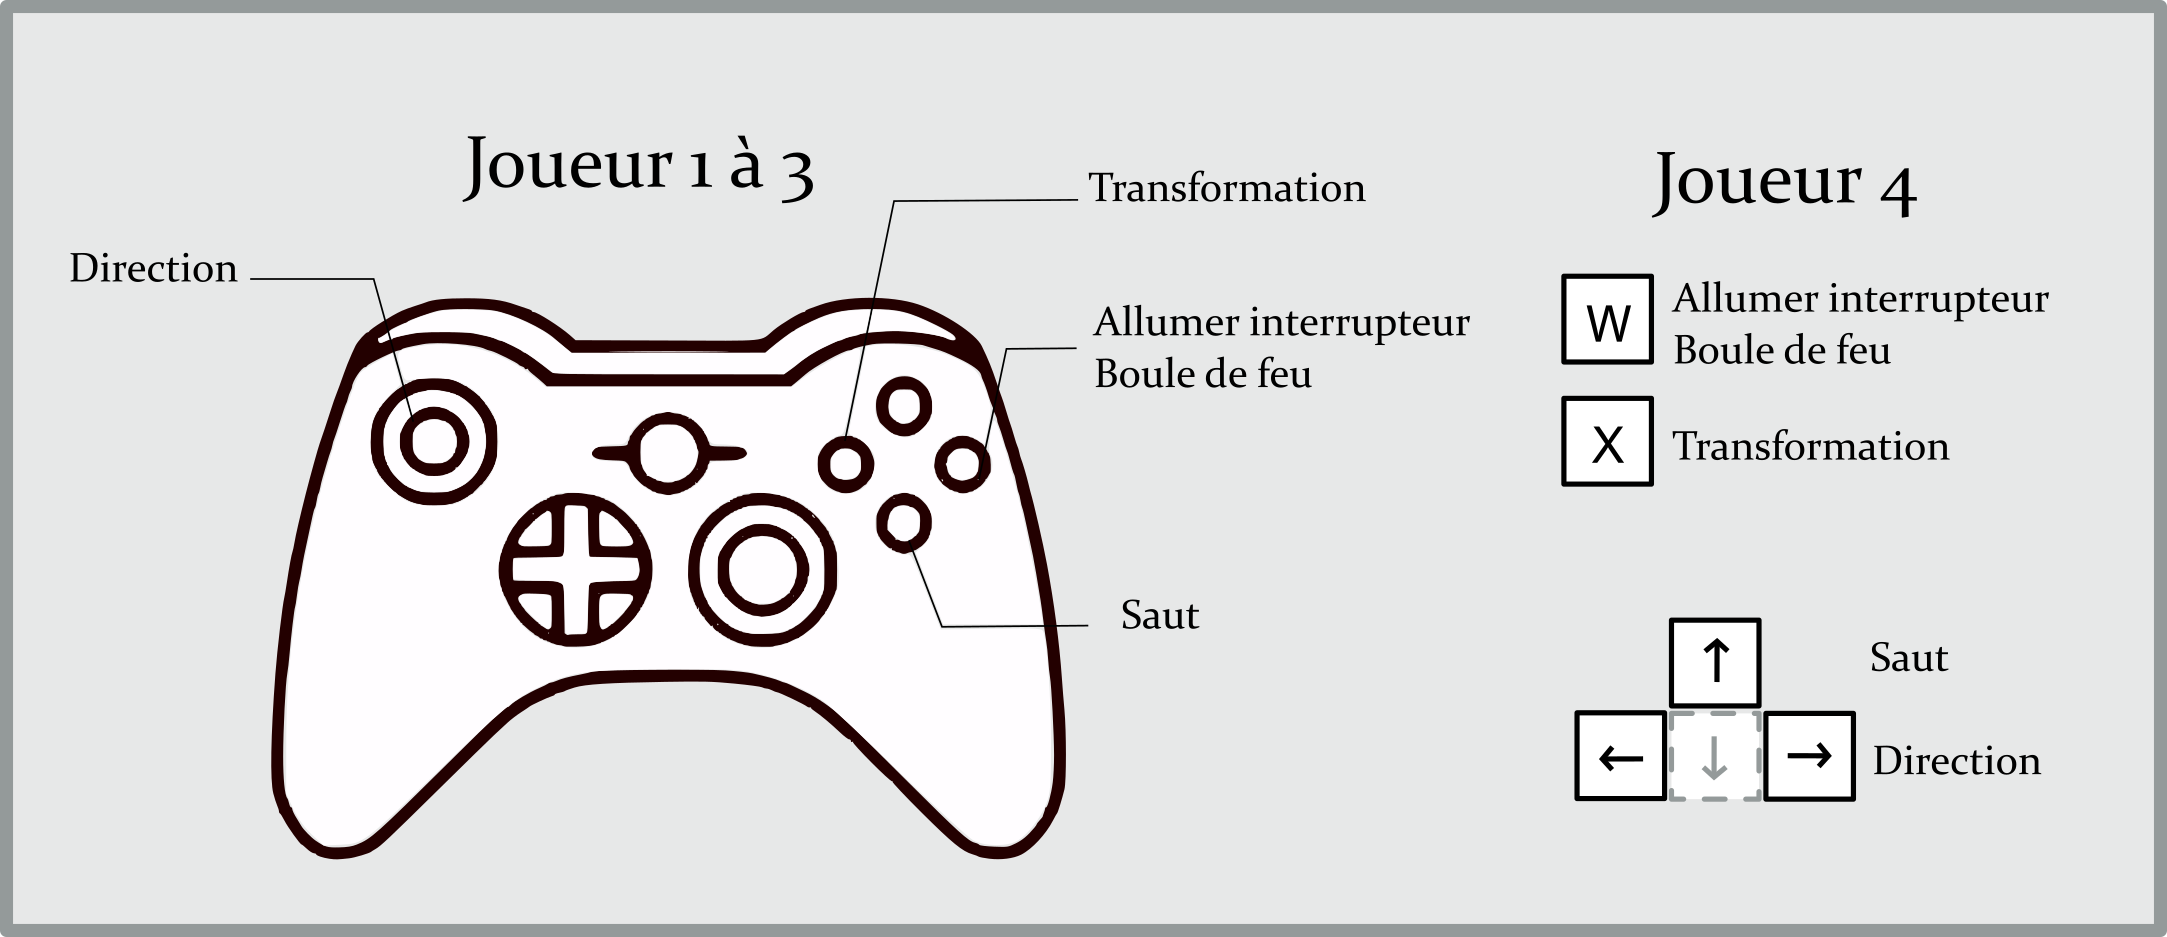
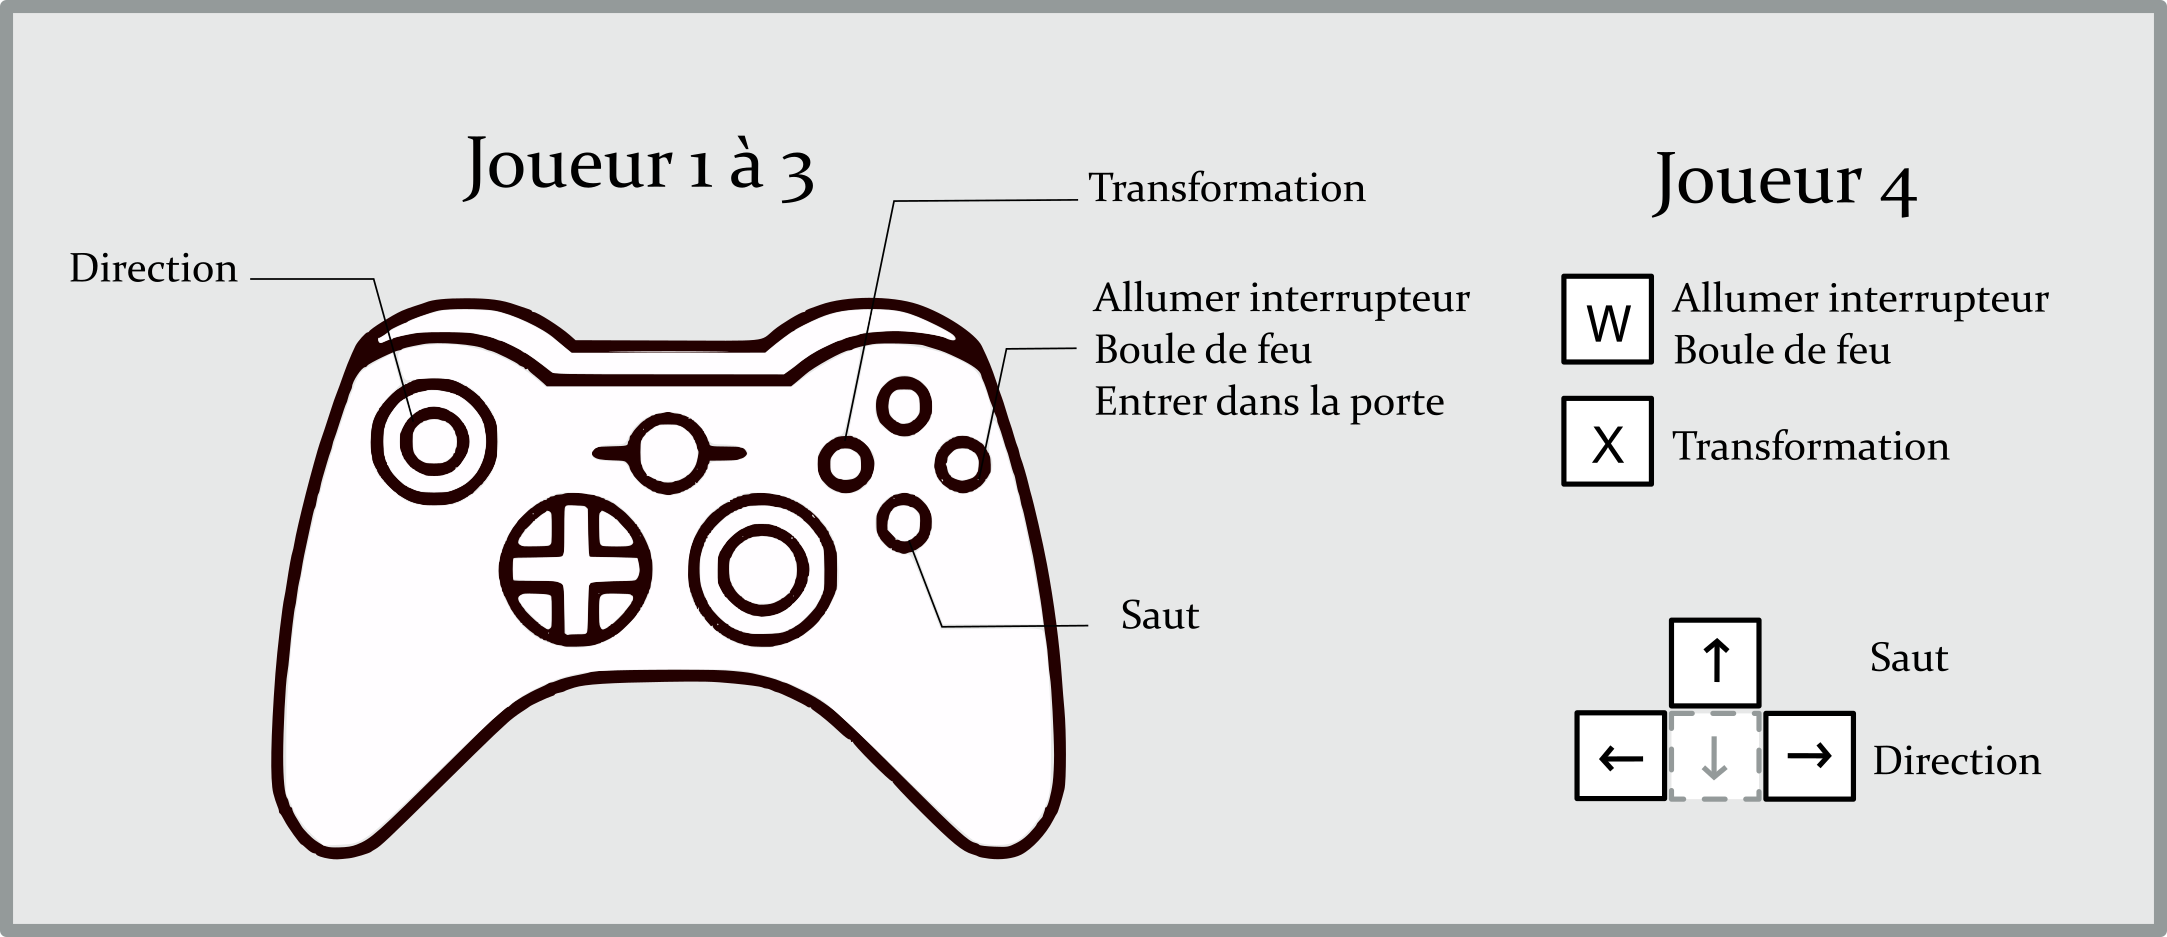
Door Enter => Condition to win
Press W or A to enter the door

Changed region(s): [[0.4947, 0.3095, 0.6802, 0.4642]]

diff --git a/Assets/Scripts/Characters/TempMovement.cs b/Assets/Scripts/Characters/TempMovement.cs
@@ -187,9 +187,8 @@ public class TempMovement : MonoBehaviour
         axis = "Horizontal";
         powerKey = KeyCode.X;
         tm.text = "J4";
-        if(character.name == "Victoria"){
-            shootKey = KeyCode.W;
-        }
+        shootKey = KeyCode.W;
+        
         if(character.name == "Henrik"){
             switchPressKey = KeyCode.W;
         }
@@ -201,9 +200,8 @@ public class TempMovement : MonoBehaviour
         axis = "Joystick3Axis";
         powerKey = KeyCode.Joystick3Button0;
         tm.text = "J3";
-        if(character.name == "Victoria"){
-            shootKey = KeyCode.Joystick3Button2;
-        }
+        shootKey = KeyCode.Joystick3Button2;
+        
         if(character.name == "Henrik"){
             switchPressKey = KeyCode.Joystick3Button2;
         }
@@ -215,9 +213,8 @@ public class TempMovement : MonoBehaviour
         axis = "Joystick2Axis";
         powerKey = KeyCode.Joystick2Button0;
         tm.text = "J2";
-        if(character.name == "Victoria"){
-            shootKey = KeyCode.Joystick2Button2;
-        }
+        shootKey = KeyCode.Joystick2Button2;
+        
         if(character.name == "Henrik"){
             switchPressKey = KeyCode.Joystick2Button2;
         }
@@ -229,9 +226,8 @@ public class TempMovement : MonoBehaviour
         powerKey = KeyCode.Joystick1Button0;
         axis = "Joystick1Axis";
         tm.text = "J1";
-        if(character.name == "Victoria"){
-            shootKey = KeyCode.Joystick1Button2;
-        }
+        shootKey = KeyCode.Joystick1Button2;
+        
         if(character.name == "Henrik"){
             switchPressKey = KeyCode.Joystick1Button2;
         }

diff --git a/Assets/Scripts/Environment/Door.cs b/Assets/Scripts/Environment/Door.cs
@@ -4,9 +4,40 @@ using UnityEngine;
 
 public class Door : MonoBehaviour
 {
-    private void OnCollisionEnter2D(Collision2D other) {
+    public Character Lucie;
+    public Character Victoria;
+    public Character Henrik;
+    public Character Fei;
+
+    private int numberCharacterWhoEnteredTheDoor = 0;
+
+    private void OnTriggerStay2D(Collider2D other) {
+        if(other.gameObject.Equals(Lucie.gameObject)){
+            if(Input.GetKey(Lucie.GetComponent<TempMovement>().shootKey)){
+                Lucie.gameObject.SetActive(false);
+                numberCharacterWhoEnteredTheDoor++;
+            }
+        }
+        if(other.gameObject.Equals(Victoria.gameObject)){
+            if(Input.GetKey(Victoria.GetComponent<TempMovement>().shootKey)){
+                Victoria.gameObject.SetActive(false);
+                numberCharacterWhoEnteredTheDoor++;
+            }
+        }
+        if(other.gameObject.Equals(Henrik.gameObject)){
+            if(Input.GetKey(Henrik.GetComponent<TempMovement>().shootKey)){
+                Henrik.gameObject.SetActive(false);
+                numberCharacterWhoEnteredTheDoor++;
+            }
+        }
+        if(other.gameObject.Equals(Fei.gameObject)){
+            if(Input.GetKey(Fei.GetComponent<TempMovement>().shootKey)){
+                Fei.gameObject.SetActive(false);
+                numberCharacterWhoEnteredTheDoor++;
+            }
+        }
         //if all characters hit the door
-        if(other.contactCount >= 5){
+        if(numberCharacterWhoEnteredTheDoor >= 4){
             OnDoorEntered();
         }
     }

diff --git a/Assets/Scripts/GameManager.cs b/Assets/Scripts/GameManager.cs
@@ -21,6 +21,8 @@ public class GameManager : MonoBehaviour
     public Character Fei;
     public Character Henrik;
 
+    public List<Robot> listOfRobot;
+
     // COLLECTABLES
     public bool hasKey {get; private set;} = false;
 
@@ -127,6 +129,7 @@ public class GameManager : MonoBehaviour
         audioSource.loop = true;
         audioSource.Play();
         DeactivateCharacters();
+        DeactivateRobot();
     }
 
     // Load the next scene
@@ -161,6 +164,12 @@ public class GameManager : MonoBehaviour
         this.Fei.gameObject.SetActive(false);
         this.Victoria.gameObject.SetActive(false);
         this.Henrik.gameObject.SetActive(false);
+    }
+
+    private void DeactivateRobot(){
+        foreach(Robot robot in listOfRobot){
+            robot.Disable();
+        }
     }
 
     // Method to set the controls index for each character

diff --git a/Assets/Scripts/Enemies/RobotBody.cs b/Assets/Scripts/Enemies/RobotBody.cs
@@ -14,7 +14,7 @@ public class RobotBody : MonoBehaviour
             }
         }
         //If the robot got hit by a fireball, he must die
-        if(robot.ennemi != null){
+        if(robot.ennemi != null && FindObjectOfType<Victoria>() != null){
             if(robot.ennemi == FindObjectOfType<Victoria>().gameObject){
                 if(collision.gameObject.layer == LayerMask.NameToLayer("Fireball")){
                     if(robot.isAlive){
@@ -32,6 +32,6 @@ public class RobotBody : MonoBehaviour
                 }
             }
         }
-        
     }
+
 }

diff --git a/Assets/Scripts/Environment/DoorToBoss.cs b/Assets/Scripts/Environment/DoorToBoss.cs
@@ -3,10 +3,10 @@ using System.Collections.Generic;
 using UnityEngine;
 using UnityEngine.SceneManagement;
 
-public class DoorToBoss : MonoBehaviour
+public class DoorToBoss : Door
 {
-    private void OnCollisionEnter2D(Collision2D other) {
+    protected override void OnDoorEntered()
+    {  
         SceneManager.LoadScene("MainScene");
     }
-
 }

diff --git a/Assets/Scripts/Environment/Switch.cs b/Assets/Scripts/Environment/Switch.cs
@@ -54,7 +54,7 @@ public class Switch : MonoBehaviour
     //Disable the switch for 0.5s
     private IEnumerator WaitUntilAvailable(){ 
 
-        float duration = 0.5f; //Duration of the disability
+        float duration = 0.7f; //Duration of the disability
         float elapsed = 0.0f;
 
         // wait
